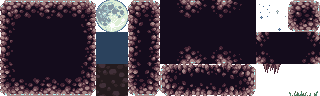
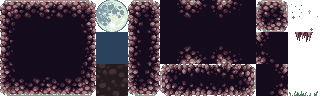
fixes minor bugs

Changed region(s): [[0.7812, 0.0, 1.0, 1.0]]

diff --git a/src/Level.js b/src/Level.js
@@ -51,7 +51,7 @@ const level1 = [
     [12, 12, 13, 14, 14, 14, 14, 14, 14, 14, 14, 14, 14, 14, 14, 14, 14, 14, 14, 14, 14, 14, 14, 14, 14, 14, 14, 14, 14, 14, 14, 14, 26, 19, 12, 12, 12, 12, 12, 12, 13, 24, 24, 24, 24, 24, 24, 24, 24, 24, 24, 24, 24, 24, 24, 24, 24, 24, 11, 12, 12, 13, 24, 24, 24, 24, 24, 24, 24, 24, 24, 24, 24, 24, 11, 12, 12, 12, 12, 12],
     [12, 12, 13, 14, 14, 14, 14, 14, 14, 14, 14, 14, 14, 14, 14, 14, 14, 14, 14, 14, 14, 14, 14, 14, 14, 14, 14, 14, 14, 14, 14, 14, 14, 11, 12, 12, 12, 12, 12, 12, 13, 24, 24, 24, 24, 24, 24, 24, 24, 24, 24, 24, 24,  1,  2,  2,  2,  2,  8, 16, 22, 23, 24, 24, 24, 24, 24, 24, 24, 24, 24, 24, 24, 24, 11, 12, 12, 12, 12, 12],
     [12, 12, 13, 14, 14, 14, 14, 14, 14, 14, 14, 14, 14, 14, 14, 14, 14, 14, 14, 14, 14, 14, 14, 14, 14, 14, 14, 14, 14, 14, 14, 14, 14, 11, 12, 12, 12, 12, 12, 12, 13, 24, 24, 24, 24, 24, 24, 24, 24, 24, 24, 24, 24, 11, 12, 12, 12, 12, 12, 13, 24, 24, 24, 24, 24, 24, 24, 24,  1,  2,  2,  2,  2,  2,  8, 12, 12, 12, 12, 12],
-    [12, 12, 13, 14, 14, 14, 14, 14, 14, 14, 14, 14, 14, 14, 14, 14, 14, 14, 14, 14, 14, 14, 14, 14, 14,  1,  2,  2,  2,  2,  2,  2,  2,  8, 12, 12, 12, 12, 12, 12, 13, 24, 24, 24, 24, 24, 24, 24, 24, 24, 24, 24, 24, 11, 16, 22, 22, 22, 22, 23, 24, 24, 24, 24, 24, 24, 24, 24, 21, 22, 22, 22, 12, 12, 12, 12, 12, 12, 12, 12],
+    [12, 12, 13, 14, 14, 14, 14, 14, 14, 14, 14, 14, 14, 14, 14, 14, 14, 14, 14, 14, 14, 14, 14, 14, 14,  1,  2,  2,  2,  2,  2,  2,  2,  8, 12, 12, 12, 12, 12, 12, 13, 24, 24, 24, 24, 24, 24, 24, 24, 24, 24, 24, 24, 11, 16, 22, 22, 22, 22, 23, 24, 24, 24, 24, 24, 24, 24, 24, 21, 22, 18, 12, 12, 12, 12, 12, 12, 12, 12, 12],
     [12, 12, 13, 14, 14, 14, 14, 14, 14, 14, 14, 14, 14, 14, 14, 14, 14, 14,  5, 14, 14, 14, 14, 14, 14, 11, 12, 12, 12, 12, 12, 12, 12, 12, 12, 12, 12, 12, 12, 12, 13, 24, 24, 24, 24, 24, 24, 24, 24, 24, 24, 24, 24, 11, 13, 24, 24, 24, 24, 24, 24, 24, 24, 24, 24, 24, 24, 24, 24, 24, 11, 12, 12, 12, 12, 12, 12, 12, 12, 12],
     [12, 12,  6,  2,  2,  2,  2,  2,  2,  2,  2,  2,  2,  2,  2,  2,  2,  2,  7,  2,  2,  2,  2,  2,  2,  8, 12, 12, 12, 12, 12, 12, 12, 12, 12, 12, 12, 12, 12, 12, 13, 24, 24, 24, 24, 24, 24, 24, 24, 24, 24, 24, 24, 11, 13, 24, 24, 24, 24, 24, 24, 24, 24, 26, 28, 24, 24, 24, 24, 24, 11, 12, 12, 12, 12, 12, 12, 12, 12, 12],
     [12, 12, 12, 12, 12, 12, 12, 12, 12, 12, 12, 12, 12, 12, 12, 12, 12, 12, 12, 12, 12, 12, 12, 12, 12, 12, 12, 12, 12, 12, 12, 12, 12, 12, 12, 12, 12, 12, 12, 12, 13, 24, 24, 24, 24, 24, 24, 24, 24, 24, 24, 24, 24, 11, 13, 24, 24, 24, 24, 24, 24, 24, 24, 24, 24, 24, 24, 24, 24, 24, 11, 12, 12, 12, 12, 12, 12, 12, 12, 12],
@@ -64,18 +64,18 @@ const level1 = [
     [12, 12, 12, 13, 24, 24, 24, 24, 11, 12, 12, 12, 13, 24, 24, 24, 24, 24, 24, 24, 24, 24, 24, 24, 24, 24, 24, 24, 24, 24, 11, 12, 12, 12, 12, 12, 12, 12, 12, 13, 24, 24, 24, 24, 24, 24, 24, 24, 11, 12, 12, 12, 12, 16, 23, 24, 24, 24, 24, 24, 26, 28, 24, 24, 24, 24, 11, 12, 12, 12, 12, 12, 12, 12, 12, 12, 12, 12, 12, 12],
     [12, 12, 12, 13, 24, 24, 24, 24, 11, 12, 12, 12,  6,  2,  2,  2,  2,  2,  2,  2,  2,  2,  2,  2,  2,  2,  2,  2,  2,  2,  8, 12, 12, 12, 12, 12, 12, 12, 12, 13, 24, 24, 24, 24, 24, 24, 24, 24, 11, 12, 12, 12, 12, 13, 24, 24, 24, 24, 24, 24, 24, 24, 24, 24, 24, 24, 11, 12, 12, 12, 12, 12, 12, 12, 12, 12, 12, 12, 12, 12],
     [12, 12, 12, 13, 24, 24, 24, 24, 11, 12, 12, 12, 12, 12, 12, 12, 12, 12, 12, 12, 12, 12, 12, 12, 12, 12, 12, 12, 12, 12, 12, 12, 12, 16, 22, 22, 22, 22, 22, 23, 24, 24, 24, 24, 24, 24, 24, 24, 11, 12, 12, 12, 12, 13, 24, 24, 24, 24, 24, 24, 24, 24, 24, 24, 24, 24, 11, 12, 12, 12, 12, 12, 12, 12, 12, 12, 12, 12, 12, 12],
-    [12, 12, 12, 13, 24, 24, 24, 24, 11, 12, 12, 12, 12, 12, 12, 12, 12, 12, 12, 12, 12, 12, 12, 12, 12, 12, 12, 12, 12, 12, 12, 12, 12, 13, 24, 24, 24, 24, 24, 24, 24, 24, 24, 24, 24, 24, 24, 24, 11, 12, 12, 12, 12, 20, 27, 27, 28, 24, 24, 24, 24, 24, 24, 24, 24, 24, 11, 12, 12, 12, 12, 12, 12, 12, 12, 12, 12, 12, 12, 12],
-    [12, 12, 12, 13, 24, 24, 24, 24, 11, 12, 12, 12, 12, 12, 12, 12, 12, 12, 12, 12, 12, 12, 12, 12, 12, 12, 12, 12, 12, 12, 12, 12, 12, 13, 24, 24, 24, 24, 24, 24, 24, 24, 24, 24, 24, 24, 24, 24, 11, 12, 12, 12, 12, 13, 24, 24, 24, 24, 24, 24, 24, 24, 24, 24, 24, 24, 11, 12, 12, 12, 12, 12, 12, 12, 12, 12, 12, 12, 12, 12],
-    [12, 12, 12, 24, 24, 24, 24, 24, 11, 12, 12, 12, 12, 12, 12, 12, 12, 12, 12, 12, 12, 12, 12, 12, 12, 12, 12, 12, 12, 12, 12, 12, 12, 13, 24, 24, 24, 24, 24, 24, 24, 24, 24, 24, 24, 24, 24, 24, 11, 12, 12, 12, 12, 13, 24, 24, 24, 24, 26, 27, 28, 24, 24, 24, 24, 24, 11, 12, 12, 12, 12, 12, 12, 12, 12, 12, 12, 12, 12, 12],
-    [12, 12, 12, 24, 24, 24, 24, 24, 11, 12, 12, 12, 12, 12, 12, 12, 12, 12, 12, 12, 12, 12, 12, 12, 12, 12, 12, 12, 12, 12, 12, 12, 12, 13, 24, 24, 24, 24, 24, 24, 24, 24, 24, 24, 24, 24, 24, 24, 11, 12, 12, 12, 12, 13, 24, 24, 24, 24, 24, 24, 24, 24, 24, 24, 24, 24, 11, 12, 12, 12, 12, 12, 12, 12, 12, 12, 12, 12, 12, 12],
-    [12, 12, 12, 24, 24, 24, 24, 24, 11, 12, 12, 12, 12, 12, 12, 12, 12, 12, 12, 12, 12, 12, 12, 12, 12, 12, 12, 12, 12, 12, 12, 12, 12, 13, 24, 24, 24, 24, 24, 24, 24, 24, 24, 24, 24, 24, 24, 24, 11, 12, 12, 12, 12, 13, 24, 24, 24, 24, 24, 24, 24, 24, 24, 24, 26, 27, 19, 12, 12, 12, 12, 12, 12, 12, 12, 12, 12, 12, 12, 12],
-    [12, 12, 12, 13, 24, 24, 24, 24, 11, 12, 12, 12, 12, 12, 12, 12, 12, 12, 12, 12, 12, 12, 12, 12, 12, 12, 12, 12, 12, 12, 12, 12, 12, 13, 24, 24, 24, 24, 24, 24, 24, 24, 24, 24, 24, 24, 24, 24, 11, 12, 12, 12, 12, 13, 24, 24, 24, 24, 24, 24, 24, 24, 24, 24, 24, 24, 11, 12, 12, 12, 12, 12, 12, 12, 12, 12, 12, 12, 12, 12],
+    [12, 12, 12, 13, 24, 24, 24, 24, 11, 12, 12, 12, 12, 12, 12, 12, 12, 12, 12, 12, 12, 12, 12, 12, 12, 12, 12, 12, 12, 12, 12, 12, 12, 13, 24, 24, 24, 24, 24, 24, 24, 24, 24, 24, 24, 24, 24, 24, 11, 12, 12, 12, 12, 29, 27, 27, 28, 24, 24, 24, 24, 24, 24, 24, 24, 24, 11, 12, 12, 12, 12, 12, 12, 12, 12, 12, 12, 12, 12, 12],
+    [12, 12, 16, 23, 24, 24, 24, 24, 11, 12, 12, 12, 12, 12, 12, 12, 12, 12, 12, 12, 12, 12, 12, 12, 12, 12, 12, 12, 12, 12, 12, 12, 12, 13, 24, 24, 24, 24, 24, 24, 24, 24, 24, 24, 24, 24, 24, 24, 11, 12, 12, 12, 12, 13, 24, 24, 24, 24, 24, 24, 24, 24, 24, 24, 24, 24, 11, 12, 12, 12, 12, 12, 12, 12, 12, 12, 12, 12, 12, 12],
+    [12, 12, 13, 24, 24, 24, 24, 24, 11, 12, 12, 12, 12, 12, 12, 12, 12, 12, 12, 12, 12, 12, 12, 12, 12, 12, 12, 12, 12, 12, 12, 12, 12, 13, 24, 24, 24, 24, 24, 24, 24, 24, 24, 24, 24, 24, 24, 24, 11, 12, 12, 12, 12, 13, 24, 24, 24, 24, 26, 27, 28, 24, 24, 24, 24, 24, 11, 12, 12, 12, 12, 12, 12, 12, 12, 12, 12, 12, 12, 12],
+    [12, 12, 13, 24, 24, 24, 24, 24, 11, 12, 12, 12, 12, 12, 12, 12, 12, 12, 12, 12, 12, 12, 12, 12, 12, 12, 12, 12, 12, 12, 12, 12, 12, 13, 24, 24, 24, 24, 24, 24, 24, 24, 24, 24, 24, 24, 24, 24, 11, 12, 12, 12, 12, 13, 24, 24, 24, 24, 24, 24, 24, 24, 24, 24, 24, 24, 11, 12, 12, 12, 12, 12, 12, 12, 12, 12, 12, 12, 12, 12],
+    [12, 12, 13, 24, 24, 24, 24, 24, 11, 12, 12, 12, 12, 12, 12, 12, 12, 12, 12, 12, 12, 12, 12, 12, 12, 12, 12, 12, 12, 12, 12, 12, 12, 13, 24, 24, 24, 24, 24, 24, 24, 24, 24, 24, 24, 24, 24, 24, 11, 12, 12, 12, 12, 13, 24, 24, 24, 24, 24, 24, 24, 24, 24, 24, 26, 27, 19, 12, 12, 12, 12, 12, 12, 12, 12, 12, 12, 12, 12, 12],
+    [12, 12,  6,  3, 24, 24, 24, 24, 11, 12, 12, 12, 12, 12, 12, 12, 12, 12, 12, 12, 12, 12, 12, 12, 12, 12, 12, 12, 12, 12, 12, 12, 12, 13, 24, 24, 24, 24, 24, 24, 24, 24, 24, 24, 24, 24, 24, 24, 11, 12, 12, 12, 12, 13, 24, 24, 24, 24, 24, 24, 24, 24, 24, 24, 24, 24, 11, 12, 12, 12, 12, 12, 12, 12, 12, 12, 12, 12, 12, 12],
     [12, 12, 12, 13, 24, 24, 24, 24, 11, 12, 12, 12, 12, 12, 12, 12, 12, 12, 12, 12, 12, 12, 12, 12, 12, 12, 12, 12, 12, 12, 12, 12, 12, 13, 24, 24, 24, 24, 24, 24, 24, 24, 24, 24, 24, 24, 24, 24, 11, 12, 12, 12, 12, 13, 24, 24, 24, 24, 24, 26, 27, 28, 24, 24, 24, 24, 11, 12, 12, 12, 12, 12, 12, 12, 12, 12, 12, 12, 12, 12],
-    [12, 12, 12, 13, 24, 24, 24, 24, 11, 12, 12, 12, 12, 12, 12, 12, 12, 12, 12, 12, 12, 12, 12, 12, 12, 12, 12, 12, 12, 12, 12, 12, 12, 13, 24, 24, 24, 24, 24, 24, 24, 24, 24, 24, 24, 24, 24, 24, 11, 12, 12, 12, 12, 13, 24, 24, 24, 24, 24, 24, 24, 24, 24, 24, 24, 24, 11, 12, 12, 12, 12, 12, 12, 12, 12, 12, 12, 12, 12, 12],
-    [12, 12, 12, 13, 24, 24, 24, 24, 24, 12, 12, 12, 12, 12, 12, 12, 12, 12, 12, 12, 12, 12, 12, 12, 12, 12, 12, 12, 12, 12, 12, 12, 12,  6,  2,  2,  2,  2,  2,  2,  2,  2,  2,  2,  2,  2,  2,  2,  8, 12, 12, 12, 12, 20, 27, 27, 28, 24, 24, 24, 24, 24, 24, 24, 24, 24, 11, 12, 12, 12, 12, 12, 12, 12, 12, 12, 12, 12, 12, 12],
-    [12, 12, 12, 13, 24, 24, 24, 24, 24, 12, 12, 12, 12, 12, 12, 12, 12, 12, 12, 12, 12, 12, 12, 12, 12, 12, 12, 12, 12, 12, 12, 12, 12, 12, 12, 12, 12, 12, 12, 12, 12, 12, 12, 12, 12, 12, 12, 12, 12, 12, 12, 12, 12, 13, 24, 24, 24, 24, 24, 24, 24, 24, 24, 24, 24, 24, 11, 12, 12, 12, 12, 12, 12, 12, 12, 12, 12, 12, 12, 12],
-    [12, 12, 12, 13, 24, 24, 24, 24, 24, 12, 12, 12, 12, 12, 12, 12, 12, 12, 12, 12, 12, 12, 12, 12, 12, 12, 12, 12, 12, 12, 12, 12, 12, 12, 12, 12, 12, 12, 12, 12, 12, 12, 12, 12, 12, 12, 12, 12, 12, 12, 12, 12, 12, 13, 24, 24, 24, 24, 24, 24, 24, 24, 24, 24, 24, 24, 11, 12, 12, 12, 12, 12, 12, 12, 12, 12, 12, 12, 12, 12],
-    [12, 12, 12, 13, 24, 24, 24, 24, 11, 12, 12, 12, 12, 12, 12, 12, 12, 12, 12, 12, 12, 12, 12, 12, 12, 12, 12, 12, 12, 12, 12, 12, 12, 12, 12, 12, 12, 12, 12, 12, 12, 12, 12, 12, 12, 12, 12, 12, 12, 12, 12, 12, 12, 13, 24, 24, 24, 24, 26, 28, 24, 24, 24, 24, 24, 24, 11, 12, 12, 12, 12, 12, 12, 12, 12, 12, 12, 12, 12, 12],
+    [12, 12, 12, 13, 24, 24, 24, 24, 21, 18, 12, 12, 12, 12, 12, 12, 12, 12, 12, 12, 12, 12, 12, 12, 12, 12, 12, 12, 12, 12, 12, 12, 12, 13, 24, 24, 24, 24, 24, 24, 24, 24, 24, 24, 24, 24, 24, 24, 11, 12, 12, 12, 12, 13, 24, 24, 24, 24, 24, 24, 24, 24, 24, 24, 24, 24, 11, 12, 12, 12, 12, 12, 12, 12, 12, 12, 12, 12, 12, 12],
+    [12, 12, 12, 13, 24, 24, 24, 24, 24, 11, 12, 12, 12, 12, 12, 12, 12, 12, 12, 12, 12, 12, 12, 12, 12, 12, 12, 12, 12, 12, 12, 12, 12,  6,  2,  2,  2,  2,  2,  2,  2,  2,  2,  2,  2,  2,  2,  2,  8, 12, 12, 12, 12, 29, 27, 27, 28, 24, 24, 24, 24, 24, 24, 24, 24, 24, 11, 12, 12, 12, 12, 12, 12, 12, 12, 12, 12, 12, 12, 12],
+    [12, 12, 12, 13, 24, 24, 24, 24, 24, 11, 12, 12, 12, 12, 12, 12, 12, 12, 12, 12, 12, 12, 12, 12, 12, 12, 12, 12, 12, 12, 12, 12, 12, 12, 12, 12, 12, 12, 12, 12, 12, 12, 12, 12, 12, 12, 12, 12, 12, 12, 12, 12, 12, 13, 24, 24, 24, 24, 24, 24, 24, 24, 24, 24, 24, 24, 11, 12, 12, 12, 12, 12, 12, 12, 12, 12, 12, 12, 12, 12],
+    [12, 12, 12, 13, 24, 24, 24, 24, 24, 11, 12, 12, 12, 12, 12, 12, 12, 12, 12, 12, 12, 12, 12, 12, 12, 12, 12, 12, 12, 12, 12, 12, 12, 12, 12, 12, 12, 12, 12, 12, 12, 12, 12, 12, 12, 12, 12, 12, 12, 12, 12, 12, 12, 13, 24, 24, 24, 24, 24, 24, 24, 24, 24, 24, 24, 24, 11, 12, 12, 12, 12, 12, 12, 12, 12, 12, 12, 12, 12, 12],
+    [12, 12, 12, 13, 24, 24, 24, 24,  1,  8, 12, 12, 12, 12, 12, 12, 12, 12, 12, 12, 12, 12, 12, 12, 12, 12, 12, 12, 12, 12, 12, 12, 12, 12, 12, 12, 12, 12, 12, 12, 12, 12, 12, 12, 12, 12, 12, 12, 12, 12, 12, 12, 12, 13, 24, 24, 24, 24, 26, 28, 24, 24, 24, 24, 24, 24, 11, 12, 12, 12, 12, 12, 12, 12, 12, 12, 12, 12, 12, 12],
     [12, 12, 12, 13, 24, 24, 24, 24, 11, 12, 12, 12, 12, 12, 12, 12, 12, 12, 12, 12, 12, 12, 12, 12, 12, 12, 12, 12, 12, 12, 12, 12, 12, 12, 12, 12, 12, 12, 12, 12, 12, 12, 12, 12, 12, 12, 12, 12, 12, 12, 12, 12, 12, 13, 24, 24, 24, 24, 24, 24, 24, 24, 24, 24, 24, 24, 11, 12, 12, 12, 12, 12, 12, 12, 12, 12, 12, 12, 12, 12],
     [12, 12, 12, 13, 24, 24, 24, 24, 21, 22, 22, 22, 22, 22, 22, 22, 22, 22, 22, 22, 22, 22, 22, 22, 22, 22, 22, 22, 22, 22, 22, 22, 22, 22, 22, 22, 22, 22, 22, 22, 22, 22, 22, 22, 22, 22, 22, 22, 22, 22, 22, 22, 22, 23, 24, 24, 24, 24, 24, 24, 24, 24, 24, 26, 27, 27, 19, 12, 12, 12, 12, 12, 12, 12, 12, 12, 12, 12, 12, 12],
     [12, 12, 12, 13, 24, 24, 24, 24, 24, 24, 24, 24, 24, 24, 24, 24, 24, 24, 24, 24, 24, 24, 24, 24, 24, 24, 24, 24, 24, 24, 24, 24, 24, 24, 24, 24, 24, 24, 24, 24, 24, 24, 24, 24, 24, 24, 24, 24, 24, 24, 24, 24, 24, 24, 24, 24, 24, 24, 24, 24, 24, 24, 24, 24, 24, 24, 11, 12, 12, 12, 12, 12, 12, 12, 12, 12, 12, 12, 12, 12],
@@ -102,20 +102,20 @@ const level1 = [
     [12, 12, 12, 13, 24, 24, 24, 24, 11,  6,  2,  2,  2,  2,  7,  2,  2,  2,  7,  2,  2,  2,  2,  8, 12, 12, 12, 12, 12, 12, 12, 12, 12, 12, 12, 12, 12, 12, 12, 12, 12, 12, 12, 12, 12, 12, 12, 12, 12, 13, 24, 24, 24, 24, 24, 24, 24, 24, 24, 24, 24, 24, 24, 24, 24, 24, 11, 12, 12, 12, 12, 12, 12, 12, 12, 12, 12, 12, 12, 12],
     [12, 12, 12, 13, 24, 24, 24, 24, 11, 12, 12, 12, 12, 12, 12, 12, 12, 12, 12, 12, 12, 12, 12, 12, 12, 12, 12, 12, 12, 12, 12, 12, 12, 12, 12, 12, 12, 12, 12, 12, 12, 12, 12, 12, 12, 12, 12, 12, 12, 13, 24, 24, 24, 24, 24, 24, 24, 24, 24, 24, 24, 24, 24, 24, 24, 24, 11, 12, 12, 12, 12, 12, 12, 12, 12, 12, 12, 12, 12, 12],
     [12, 12, 12, 13, 24, 24, 24, 24, 11, 12, 12, 12, 12, 12, 12, 12, 12, 12, 12, 12, 12, 12, 12, 12, 12, 12, 12, 12, 12, 12, 12, 12, 12, 12, 12, 12, 12, 12, 12, 12, 12, 12, 12, 12, 12, 12, 12, 12, 12, 13, 24, 24, 24, 24, 24, 24, 24, 24, 24, 24, 24, 24, 24, 24, 24, 24, 11, 12, 12, 12, 12, 12, 12, 12, 12, 12, 12, 12, 12, 12],
-    [12, 12, 12, 13, 24, 24, 24, 24, 11, 12, 12, 12, 12, 12, 12, 12, 12, 12, 12, 12, 12, 12, 12, 12, 12, 12, 12, 12, 12, 12, 12, 12, 12, 12, 12, 12, 12, 12, 12, 12, 12, 12, 12, 12, 12, 12, 12, 12, 12, 13, 24, 24, 24, 24, 24, 24, 24, 24, 24, 24, 24, 24, 24, 24, 24, 24, 11, 12, 12, 12, 12, 12, 12, 12, 12, 12, 12, 12, 12, 12],
-    [12, 12, 12, 13, 24, 24, 24, 24, 11, 12, 12, 12, 12, 12, 12, 12, 12, 12, 12, 12, 12, 12, 12, 12, 12, 12, 12, 12, 12, 12, 12, 12, 12, 12, 12, 12, 12, 12, 12, 12, 12, 12, 12, 12, 12, 12, 12, 12, 12, 13, 24, 24, 24, 24, 24, 24, 24, 24, 24, 24, 24, 24, 24, 24, 24, 24, 11, 12, 12, 12, 12, 12, 12, 12, 12, 12, 12, 12, 12, 12],
-    [12, 12, 12, 13, 24, 24, 24, 24, 11, 12, 12, 12, 12, 12, 12, 12, 12, 12, 12, 12, 12, 12, 12, 12, 12, 12, 12, 12, 12, 12, 12, 12, 12, 12, 12, 12, 12, 12, 12, 12, 12, 12, 12, 12, 12, 12, 12, 12, 12,  6,  2,  2,  2,  2,  3, 24, 24, 24, 24, 24, 24, 24, 24, 24, 24, 24, 11, 12, 12, 12, 12, 12, 12, 12, 12, 12, 12, 12, 12, 12],
-    [12, 12, 12, 13, 24, 24, 24, 24, 11, 12, 12, 12, 12, 12, 12, 12, 12, 12, 12, 12, 12, 12, 12, 12, 12, 12, 12, 12, 12, 12, 12, 12, 12, 12, 12, 12, 12, 12, 12, 16, 22, 22, 22, 22, 22, 22, 22, 22, 22, 22, 22, 22, 22, 22, 23, 24, 24, 24, 24, 24, 24, 24, 24, 24, 24, 24, 11, 12, 12, 12, 12, 12, 12, 12, 12, 12, 12, 12, 12, 12],
-    [12, 12, 12, 13, 24, 24, 24, 24, 11, 12, 12, 12, 12, 12, 12, 12, 12, 12, 12, 12, 12, 12, 12, 12, 12, 12, 12, 12, 12, 12, 12, 12, 12, 12, 12, 12, 12, 12, 12, 13, 24, 24, 24, 24, 24, 24, 24, 24, 24, 24, 24, 24, 24, 24, 24, 24, 24, 26, 28, 24, 24, 24, 24, 24, 24, 24, 11, 12, 12, 12, 12, 12, 12, 12, 12, 12, 12, 12, 12, 12],
+    [12, 12, 16, 23, 24, 24, 24, 24, 11, 12, 12, 12, 12, 12, 12, 12, 12, 12, 12, 12, 12, 12, 12, 12, 12, 12, 12, 12, 12, 12, 12, 12, 12, 12, 12, 12, 12, 12, 12, 12, 12, 12, 12, 12, 12, 12, 12, 12, 12, 13, 24, 24, 24, 24, 24, 24, 24, 24, 24, 24, 24, 24, 24, 24, 24, 24, 11, 12, 12, 12, 12, 12, 12, 12, 12, 12, 12, 12, 12, 12],
+    [12, 12, 13, 24, 24, 24, 24, 24, 11, 12, 12, 12, 12, 12, 12, 12, 12, 12, 12, 12, 12, 12, 12, 12, 12, 12, 12, 12, 12, 12, 12, 12, 12, 12, 12, 12, 12, 12, 12, 12, 12, 12, 12, 12, 12, 12, 12, 12, 12, 13, 24, 24, 24, 24, 24, 24, 24, 24, 24, 24, 24, 24, 24, 24, 24, 24, 11, 12, 12, 12, 12, 12, 12, 12, 12, 12, 12, 12, 12, 12],
+    [12, 12, 13, 24, 24, 24, 24, 24, 11, 12, 12, 12, 12, 12, 12, 12, 12, 12, 12, 12, 12, 12, 12, 12, 12, 12, 12, 12, 12, 12, 12, 12, 12, 12, 12, 12, 12, 12, 12, 12, 12, 12, 12, 12, 12, 12, 12, 12, 12,  6,  2,  2,  2,  2,  3, 24, 24, 24, 24, 24, 24, 24, 24, 24, 24, 24, 11, 12, 12, 12, 12, 12, 12, 12, 12, 12, 12, 12, 12, 12],
+    [12, 12, 13, 24, 24, 24, 24, 24, 11, 12, 12, 12, 12, 12, 12, 12, 12, 12, 12, 12, 12, 12, 12, 12, 12, 12, 12, 12, 12, 12, 12, 12, 12, 12, 12, 12, 12, 12, 12, 16, 22, 22, 22, 22, 22, 22, 22, 22, 22, 22, 22, 22, 22, 22, 23, 24, 24, 24, 24, 24, 24, 24, 24, 24, 24, 24, 11, 12, 12, 12, 12, 12, 12, 12, 12, 12, 12, 12, 12, 12],
+    [12, 12,  6,  3, 24, 24, 24, 24, 11, 12, 12, 12, 12, 12, 12, 12, 12, 12, 12, 12, 12, 12, 12, 12, 12, 12, 12, 12, 12, 12, 12, 12, 12, 12, 12, 12, 12, 12, 12, 13, 24, 24, 24, 24, 24, 24, 24, 24, 24, 24, 24, 24, 24, 24, 24, 24, 24, 26, 28, 24, 24, 24, 24, 24, 24, 24, 11, 12, 12, 12, 12, 12, 12, 12, 12, 12, 12, 12, 12, 12],
     [12, 12, 12, 13, 24, 24, 24, 24, 11, 12, 12, 12, 16, 22, 22, 22, 22, 22, 22, 22, 22, 22, 22, 18, 12, 12, 12, 12, 12, 12, 12, 12, 12, 12, 12, 12, 12, 12, 12, 13, 24, 24, 24, 24, 24, 24, 24, 24, 24, 24, 24, 24, 24, 24, 24, 24, 24, 24, 24, 24, 24, 24, 24, 24, 24, 24, 11, 12, 12, 12, 12, 12, 12, 12, 12, 12, 12, 12, 12, 12],
     [12, 12, 12, 13, 24, 24, 24, 24, 11, 12, 12, 12, 13, 24, 24, 24, 24, 24, 24, 24, 24, 24, 24, 11, 12, 12, 12, 12, 12, 12, 12, 12, 12, 12, 12, 12, 12, 12, 12, 13, 24, 24, 24, 24, 24, 24, 24, 24, 24, 24, 24, 24, 24, 24, 24, 24, 24, 24, 24, 24, 24, 24, 26, 27, 27, 27, 19, 12, 12, 12, 12, 12, 12, 12, 12, 12, 12, 12, 12, 12],
-    [12, 12, 12, 13, 24, 24, 24, 24, 11, 12, 12, 12, 13, 24, 24, 24, 24, 24, 24, 24, 24, 24, 24, 11, 12, 12, 12, 12, 12, 12, 12, 12, 12, 12, 12, 12, 12, 12, 12, 20, 27, 27, 28, 24, 24, 24, 24, 24, 24, 24, 24, 24, 24, 24, 24, 24, 24, 24, 24, 24, 24, 24, 24, 24, 24, 24, 11, 12, 12, 12, 12, 12, 12, 12, 12, 12, 12, 12, 12, 12],
+    [12, 12, 12, 13, 24, 24, 24, 24, 11, 12, 12, 12, 13, 24, 24, 24, 24, 24, 24, 24, 24, 24, 24, 11, 12, 12, 12, 12, 12, 12, 12, 12, 12, 12, 12, 12, 12, 12, 12, 29, 27, 27, 28, 24, 24, 24, 24, 24, 24, 24, 24, 24, 24, 24, 24, 24, 24, 24, 24, 24, 24, 24, 24, 24, 24, 24, 11, 12, 12, 12, 12, 12, 12, 12, 12, 12, 12, 12, 12, 12],
     [12, 12, 12, 13, 24, 24, 24, 24, 21, 22, 22, 22, 23, 24, 24, 24, 24, 24, 24, 24, 24, 24, 24, 11, 12, 12, 12, 12, 12, 12, 12, 12, 12, 12, 12, 12, 12, 12, 12, 13, 24, 24, 24, 24, 24, 24, 24, 24, 24, 24, 24, 24, 24, 24, 24, 24, 24, 24, 24, 24, 24, 24, 24, 24, 24, 24, 11, 12, 12, 12, 12, 12, 12, 12, 12, 12, 12, 12, 12, 12],
     [12, 12, 12, 13, 24, 24, 24, 24, 24, 24, 24, 24, 24, 24, 24, 24, 24, 24, 24, 24, 24, 24, 24, 11, 12, 12, 12, 12, 12, 12, 12, 12, 12, 12, 12, 12, 12, 12, 12, 13, 24, 24, 24, 24, 24, 24, 24, 24, 24, 24, 24, 24, 24, 24, 24, 24, 24, 24, 24,  1,  3, 24, 24, 24, 24, 24, 11, 12, 12, 12, 12, 12, 12, 12, 12, 12, 12, 12, 12, 12],
     [12, 12, 12, 13, 24, 24, 24, 24, 24, 24, 24, 24, 24, 24, 24, 24, 24, 24, 24, 24, 24, 24, 24, 21, 22, 22, 22, 22, 22, 18, 12, 12, 12, 12, 12, 12, 12, 12, 12, 13, 24, 24, 24, 24, 24, 24, 24, 24, 24, 24, 24, 24, 24, 24, 24, 24, 24, 24, 24, 11, 13, 24, 24, 24, 24, 24, 11, 12, 12, 12, 12, 12, 12, 12, 12, 12, 12, 12, 12, 12],
-    [12, 12, 12, 13, 24, 24, 24, 24, 24, 24, 24, 24, 24, 24, 24, 24, 24, 24, 24, 24, 24, 24, 24, 24, 24, 24, 24, 24, 24, 11, 12, 12, 12, 12, 12, 12, 12, 12, 12,  6,  2,  2,  2,  2,  2,  2,  2,  2,  2,  2,  2,  2,  2,  2,  2,  2,  2,  2,  2,  8,  6,  2,  2,  2,  2,  2,  8, 12, 12, 12, 12, 12, 12, 12, 12, 12, 12, 12, 12, 12],
-    [12, 12, 12, 13, 24, 24, 24, 24, 24, 24, 24, 24, 24, 24, 24, 24, 24, 24, 24, 24, 24, 24, 24, 24, 24, 24, 24, 24, 24, 11, 12, 12, 12, 12, 12, 12, 12, 12, 12, 12, 12, 12, 12, 12, 12, 12, 12, 12, 12, 12, 12, 12, 12, 12, 12, 12, 12, 12, 12, 12, 12, 12, 12, 12, 12, 12, 12, 12, 12, 12, 12, 12, 12, 12, 12, 12, 12, 12, 12, 12],
-    [12, 12, 12,  6,  2,  2,  2,  2,  2,  2,  2,  2,  2,  2,  2,  2,  2,  2,  2,  2,  3, 24, 24, 24, 24, 24, 24, 24, 24, 11, 12, 12, 12, 12, 12, 12, 12, 12, 12, 12, 12, 12, 12, 12, 12, 12, 12, 12, 12, 12, 12, 12, 12, 12, 12, 12, 12, 12, 12, 12, 12, 12, 12, 12, 12, 12, 12, 12, 12, 12, 12, 12, 12, 12, 12, 12, 12, 12, 12, 12],
+    [12, 12, 12, 13, 24, 24, 24, 24, 24, 24, 24, 24, 24, 24, 24, 24, 24, 24,  5, 24, 24, 24, 24, 24, 24, 24, 24, 24, 24, 11, 12, 12, 12, 12, 12, 12, 12, 12, 12,  6,  2,  2,  2,  2,  2,  2,  2,  2,  2,  2,  2,  2,  2,  2,  2,  2,  2,  2,  2,  8,  6,  2,  2,  2,  2,  2,  8, 12, 12, 12, 12, 12, 12, 12, 12, 12, 12, 12, 12, 12],
+    [12, 12, 12, 13, 24, 24, 24, 24, 24, 24, 24, 24, 24, 24, 24, 24, 24, 24, 15, 24, 24, 24, 24, 24, 24, 24, 24, 24, 24, 11, 12, 12, 12, 12, 12, 12, 12, 12, 12, 12, 12, 12, 12, 12, 12, 12, 12, 12, 12, 12, 12, 12, 12, 12, 12, 12, 12, 12, 12, 12, 12, 12, 12, 12, 12, 12, 12, 12, 12, 12, 12, 12, 12, 12, 12, 12, 12, 12, 12, 12],
+    [12, 12, 12,  6,  2,  2,  2,  2,  2,  2,  2,  2,  2,  2,  2,  2,  2,  2,  7,  2,  3, 24, 24, 24, 24, 24, 24, 24, 24, 11, 12, 12, 12, 12, 12, 12, 12, 12, 12, 12, 12, 12, 12, 12, 12, 12, 12, 12, 12, 12, 12, 12, 12, 12, 12, 12, 12, 12, 12, 12, 12, 12, 12, 12, 12, 12, 12, 12, 12, 12, 12, 12, 12, 12, 12, 12, 12, 12, 12, 12],
     [12, 12, 12, 12, 12, 12, 12, 12, 12, 12, 12, 12, 12, 12, 12, 12, 12, 12, 12, 12,  6,  2,  2,  2,  3, 24, 24, 24, 24, 11, 12, 12, 12, 12, 12, 12, 12, 12, 12, 12, 12, 12, 12, 12, 12, 12, 12, 12, 12, 12, 12, 12, 12, 12, 12, 12, 12, 12, 12, 12, 12, 12, 12, 12, 12, 12, 12, 12, 12, 12, 12, 12, 12, 12, 12, 12, 12, 12, 12, 12],
     [12, 12, 12, 12, 12, 12, 12, 12, 12, 12, 12, 12, 12, 12, 12, 12, 12, 12, 12, 12, 12, 12, 12, 12,  6,  2,  2,  2,  2,  8, 12, 12, 12, 12, 12, 12, 12, 12, 12, 12, 12, 12, 12, 12, 12, 12, 12, 12, 12, 12, 12, 12, 12, 12, 12, 12, 12, 12, 12, 12, 12, 12, 12, 12, 12, 12, 12, 12, 12, 12, 12, 12, 12, 12, 12, 12, 12, 12, 12, 12],
     [12, 12, 12, 12, 12, 12, 12, 12, 12, 12, 12, 12, 12, 12, 12, 12, 12, 12, 12, 12, 12, 12, 12, 12, 12, 12, 12, 12, 12, 12, 12, 12, 12, 12, 12, 12, 12, 12, 12, 12, 12, 12, 12, 12, 12, 12, 12, 12, 12, 12, 12, 12, 12, 12, 12, 12, 12, 12, 12, 12, 12, 12, 12, 12, 12, 12, 12, 12, 12, 12, 12, 12, 12, 12, 12, 12, 12, 12, 12, 12],
@@ -159,7 +159,7 @@ const monster1 = [
         [0, 0, 0, 0, 0, 0, 0, 0, 0, 0, 0, 0, 0, 0, 0, 0, 0, 0, 0, 0, 0, 0, 0, 0, 0, 0, 0, 0, 0, 0, 0, 0, 0, 0, 0, 0, 0, 0, 0, 0, 0, 0, 0, 0, 0, 0, 0, 0, 0, 0, 0, 0, 0, 0, 0, 0, 0, 0, 0, 0, 0, 0, 0, 0, 0, 0, 0, 0, 0, 0, 0, 0, 0, 0, 0, 0, 0, 0, 0, 0],
         [0, 0, 0, 0, 0, 0, 0, 0, 0, 0, 0, 0, 0, 0, 0, 0, 0, 0, 0, 0, 0, 0, 0, 0, 0, 0, 0, 0, 0, 0, 0, 0, 0, 0, 0, 0, 0, 0, 0, 0, 0, 0, 0, 0, 0, 0, 0, 0, 0, 0, 0, 0, 0, 0, 0, 0, 0, 0, 0, 0, 0, 0, 0, 0, 0, 0, 0, 0, 0, 0, 0, 0, 0, 0, 0, 0, 0, 0, 0, 0],
         [0, 0, 0, 0, 0, 0, 0, 0, 0, 0, 0, 0, 0, 0, 0, 0, 0, 0, 0, 0, 0, 0, 0, 0, 0, 0, 0, 0, 0, 0, 0, 0, 0, 0, 0, 0, 0, 0, 0, 0, 0, 0, 0, 0, 0, 0, 0, 0, 0, 0, 0, 0, 0, 0, 0, 0, 0, 0, 0, 0, 0, 0, 0, 0, 0, 0, 0, 0, 0, 0, 0, 0, 0, 0, 0, 0, 0, 0, 0, 0],
-        [0, 0, 0, 0, 0, 0, 0, 0, 0, 0, 0, 17, 0, 0, 0, 0, 0, 0, 0, 0, 0, 0, 0, 0, 0, 0, 0, 0, 0, 0, 0, 0, 0, 0, 0, 0, 0, 0, 0, 0, 0, 0, 0, 0, 0, 0, 0, 0, 0, 0, 0, 0, 0, 0, 0, 0, 0, 0, 0, 0, 0, 0, 0, 0, 0, 0, 0, 0, 0, 0, 0, 0, 0, 0, 0, 0, 0, 0, 0, 0],
+        [0, 0, 0, 0, 0, 0, 0, 0, 0, 0, 0, 0, 16, 0, 0, 0, 0, 0, 0, 0, 0, 0, 0, 0, 0, 0, 0, 0, 0, 0, 0, 0, 0, 0, 0, 0, 0, 0, 0, 0, 0, 0, 0, 0, 0, 0, 0, 0, 0, 0, 0, 0, 0, 0, 0, 0, 0, 0, 0, 0, 0, 0, 0, 0, 0, 0, 0, 0, 0, 0, 0, 0, 0, 0, 0, 0, 0, 0, 0, 0],
         [0, 0, 0, 0, 0, 0, 0, 0, 0, 0, 1, 0, 0, 0, 0, 0, 0, 0, 0, 0, 0, 0, 0, 0, 0, 0, 0, 0, 0, 0, 0, 0, 0, 0, 0, 0, 0, 0, 0, 0, 0, 0, 0, 0, 0, 0, 0, 0, 0, 0, 0, 0, 0, 0, 0, 0, 0, 0, 0, 0, 0, 0, 0, 0, 0, 0, 0, 0, 0, 0, 0, 0, 0, 0, 0, 0, 0, 0, 0, 0],
         [0, 0, 0, 0, 0, 0, 0, 0, 0, 0, 0, 0, 0, 0, 0, 0, 0, 0, 0, 0, 0, 0, 0, 0, 0, 0, 0, 0, 0, 0, 0, 0, 0, 0, 0, 0, 0, 0, 0, 0, 0, 0, 0, 0, 0, 0, 0, 0, 0, 0, 0, 0, 0, 0, 0, 0, 0, 0, 0, 0, 0, 0, 0, 0, 0, 0, 0, 0, 0, 0, 0, 0, 0, 0, 0, 0, 0, 0, 0, 0],
         [0, 0, 0, 0, 0, 0, 0, 0, 0, 0, 0, 0, 0, 0, 0, 0, 0, 0, 0, 0, 13, 0, 0, 0, 0, 0, 0, 0, 0, 0, 0, 0, 0, 0, 0, 0, 0, 0, 0, 0, 0, 0, 0, 0, 0, 0, 0, 0, 0, 0, 0, 0, 0, 0, 0, 0, 0, 0, 0, 0, 0, 0, 0, 0, 0, 0, 0, 0, 0, 0, 0, 0, 0, 0, 0, 0, 0, 0, 0, 0],
@@ -168,13 +168,13 @@ const monster1 = [
         [0, 0, 0, 0, 0, 0, 0, 0, 0, 0, 0, 0, 0, 0, 0, 0, 0, 0, 0, 0, 0, 0, 0, 0, 0, 0, 0, 0, 0, 0, 0, 0, 0, 0, 0, 0, 0, 0, 0, 0, 0, 0, 0, 0, 0, 0, 0, 0, 0, 0, 0, 0, 0, 0, 0, 0, 0, 0, 0, 0, 0, 0, 0, 0, 0, 0, 0, 0, 0, 0, 0, 0, 0, 0, 0, 0, 0, 0, 0, 0],
         [0, 0, 0, 0, 0, 0, 0, 0, 0, 0, 0, 0, 0, 0, 0, 0, 0, 0, 0, 0, 0, 0, 0, 0, 0, 0, 0, 0, 0, 0, 0, 0, 0, 0, 0, 0, 0, 0, 0, 0, 0, 0, 0, 0, 0, 0, 0, 0, 0, 0, 0, 0, 0, 0, 0, 0, 0, 0, 0, 0, 0, 0, 0, 0, 0, 0, 0, 0, 0, 0, 0, 0, 0, 0, 0, 0, 0, 0, 0, 0],
         [0, 0, 0, 0, 0, 0, 0, 0, 0, 0, 0, 0, 0, 0, 0, 0, 0, 0, 0, 0, 0, 0, 0, 0, 0, 0, 0, 0, 0, 0, 0, 0, 0, 0, 0, 0, 0, 0, 0, 0, 0, 0, 0, 0, 0, 0, 0, 0, 0, 0, 0, 0, 0, 0, 0, 0, 0, 0, 0, 0, 0, 0, 0, 0, 0, 0, 0, 0, 0, 0, 0, 0, 0, 0, 0, 0, 0, 0, 0, 0],
-        [0, 0, 16, 0, 0, 0, 0, 0, 0, 0, 0, 0, 0, 0, 0, 0, 0, 0, 0, 0, 0, 0, 0, 0, 0, 0, 0, 0, 0, 0, 0, 0, 0, 0, 3, 0, 0, 2, 0, 0, 2, 0, 0, 0, 0, 0, 0, 0, 0, 0, 0, 0, 0, 0, 0, 0, 0, 0, 0, 0, 0, 0, 0, 0, 0, 0, 0, 0, 0, 0, 0, 0, 0, 0, 0, 0, 0, 0, 0, 0],
-        [0, 0, 0, 0, 0, 0, 0, 0, 0, 0, 0, 0, 0, 0, 0, 0, 0, 0, 0, 0, 0, 0, 0, 0, 0, 0, 0, 0, 0, 0, 0, 0, 0, 0, 0, 0, 0, 0, 0, 0, 0, 0, 0, 0, 0, 0, 0, 0, 0, 0, 0, 0, 0, 0, 0, 0, 0, 0, 0, 0, 0, 0, 0, 0, 0, 0, 0, 0, 0, 0, 0, 0, 0, 0, 0, 0, 0, 0, 0, 0],
+        [0, 0, 0, 0, 0, 0, 0, 0, 0, 0, 0, 0, 0, 0, 0, 0, 0, 0, 0, 0, 0, 0, 0, 0, 0, 0, 0, 0, 0, 0, 0, 0, 0, 0, 3, 0, 0, 2, 0, 0, 2, 0, 0, 0, 0, 0, 0, 0, 0, 0, 0, 0, 0, 0, 0, 0, 0, 0, 0, 0, 0, 0, 0, 0, 0, 0, 0, 0, 0, 0, 0, 0, 0, 0, 0, 0, 0, 0, 0, 0],
+        [0, 0, 0, 16, 0, 0, 0, 0, 0, 0, 0, 0, 0, 0, 0, 0, 0, 0, 0, 0, 0, 0, 0, 0, 0, 0, 0, 0, 0, 0, 0, 0, 0, 0, 0, 0, 0, 0, 0, 0, 0, 0, 0, 0, 0, 0, 0, 0, 0, 0, 0, 0, 0, 0, 0, 0, 0, 0, 0, 0, 0, 0, 0, 0, 0, 0, 0, 0, 0, 0, 0, 0, 0, 0, 0, 0, 0, 0, 0, 0],
         [0, 0, 0, 0, 0, 0, 0, 0, 0, 0, 0, 0, 0, 0, 0, 0, 0, 0, 0, 0, 0, 0, 0, 0, 0, 0, 0, 0, 0, 0, 0, 0, 0, 0, 0, 0, 0, 0, 0, 0, 0, 0, 10, 0, 0, 0, 0, 0, 0, 0, 0, 0, 0, 0, 0, 0, 0, 0, 0, 0, 0, 0, 0, 0, 0, 0, 0, 0, 0, 0, 0, 0, 0, 0, 0, 0, 0, 0, 0, 0],
         [0, 0, 0, 0, 0, 0, 0, 0, 0, 0, 0, 0, 0, 0, 0, 0, 0, 0, 0, 0, 0, 0, 0, 0, 0, 0, 0, 0, 0, 0, 0, 0, 0, 0, 0, 0, 0, 0, 0, 0, 0, 0, 0, 0, 0, 0, 0, 0, 0, 0, 0, 0, 0, 0, 0, 0, 0, 0, 0, 0, 0, 0, 0, 0, 0, 0, 0, 0, 0, 0, 0, 0, 0, 0, 0, 0, 0, 0, 0, 0],
         [0, 0, 0, 0, 0, 0, 0, 0, 0, 0, 0, 0, 0, 0, 0, 0, 0, 0, 0, 0, 0, 0, 0, 0, 0, 0, 0, 0, 0, 0, 0, 0, 0, 0, 0, 0, 0, 0, 0, 0, 0, 0, 0, 0, 0, 0, 0, 0, 0, 0, 0, 0, 0, 0, 0, 0, 0, 0, 0, 0, 0, 0, 0, 0, 0, 0, 0, 0, 0, 0, 0, 0, 0, 0, 0, 0, 0, 0, 0, 0],
         [0, 0, 0, 0, 0, 0, 0, 0, 0, 0, 0, 0, 0, 0, 0, 0, 0, 0, 0, 0, 0, 0, 0, 0, 0, 0, 0, 0, 0, 0, 0, 0, 0, 0, 0, 0, 0, 0, 0, 0, 0, 0, 0, 0, 0, 0, 0, 0, 0, 0, 0, 0, 0, 0, 0, 0, 0, 0, 0, 0, 0, 0, 0, 0, 0, 0, 0, 0, 0, 0, 0, 0, 0, 0, 0, 0, 0, 0, 0, 0],
-        [0, 0, 0, 0, 11, 0, 0, 0, 0, 0, 0, 0, 0, 0, 0, 0, 0, 0, 0, 0, 0, 0, 0, 0, 0, 0, 0, 0, 0, 0, 0, 0, 0, 0, 0, 0, 0, 0, 0, 0, 0, 0, 0, 0, 0, 0, 0, 0, 0, 0, 0, 0, 0, 0, 0, 0, 0, 0, 0, 0, 0, 0, 0, 0, 0, 0, 0, 0, 0, 0, 0, 0, 0, 0, 0, 0, 0, 0, 0, 0],
+        [0, 0, 0, 0, 11, 0, 0, 0, 17, 0, 0, 0, 0, 0, 0, 0, 0, 0, 0, 0, 0, 0, 0, 0, 0, 0, 0, 0, 0, 0, 0, 0, 0, 0, 0, 0, 0, 0, 0, 0, 0, 0, 0, 0, 0, 0, 0, 0, 0, 0, 0, 0, 0, 0, 0, 0, 0, 0, 0, 0, 0, 0, 0, 0, 0, 0, 0, 0, 0, 0, 0, 0, 0, 0, 0, 0, 0, 0, 0, 0],
         [0, 0, 0, 0, 0, 0, 0, 0, 0, 0, 0, 0, 0, 0, 0, 0, 0, 0, 0, 0, 0, 0, 0, 0, 0, 0, 0, 0, 0, 0, 0, 0, 0, 0, 0, 0, 0, 0, 0, 0, 0, 0, 0, 0, 0, 0, 0, 0, 0, 0, 0, 0, 0, 0, 0, 0, 0, 0, 0, 0, 0, 0, 0, 0, 0, 0, 0, 0, 0, 0, 0, 0, 0, 0, 0, 0, 0, 0, 0, 0],
         [0, 0, 0, 0, 0, 0, 0, 0, 0, 0, 0, 0, 0, 0, 0, 0, 0, 0, 0, 0, 0, 0, 0, 0, 0, 0, 0, 0, 0, 0, 0, 0, 0, 0, 0, 0, 0, 0, 0, 0, 0, 0, 0, 0, 0, 0, 0, 0, 0, 0, 0, 0, 0, 0, 0, 0, 0, 0, 0, 0, 0, 0, 0, 0, 0, 0, 0, 0, 0, 0, 0, 0, 0, 0, 0, 0, 0, 0, 0, 0],
         [0, 0, 0, 0, 0, 0, 0, 0, 0, 0, 0, 0, 0, 0, 0, 0, 0, 0, 0, 0, 0, 0, 0, 0, 0, 0, 0, 0, 0, 0, 0, 0, 0, 0, 0, 0, 0, 0, 0, 0, 0, 0, 0, 0, 0, 0, 0, 0, 0, 0, 0, 0, 0, 0, 0, 0, 0, 0, 0, 0, 0, 0, 0, 0, 0, 0, 0, 0, 0, 0, 0, 0, 0, 0, 0, 0, 0, 0, 0, 0],
@@ -205,7 +205,7 @@ const monster1 = [
         [0, 0, 0, 0, 0, 0, 0, 0, 0, 0, 0, 0, 0, 0, 0, 0, 0, 0, 0, 0, 0, 0, 0, 0, 0, 0, 0, 0, 0, 0, 0, 0, 0, 0, 0, 0, 0, 0, 0, 0, 0, 0, 0, 0, 0, 0, 0, 0, 0, 0, 0, 0, 0, 0, 0, 0, 0, 14, 0, 0, 0, 0, 0, 0, 0, 0, 0, 0, 0, 0, 0, 0, 0, 0, 0, 0, 0, 0, 0, 0],
         [0, 0, 0, 0, 0, 0, 0, 0, 0, 0, 0, 0, 0, 0, 0, 0, 0, 0, 0, 0, 0, 0, 0, 0, 0, 0, 0, 0, 0, 0, 0, 0, 0, 0, 0, 0, 0, 0, 0, 0, 0, 0, 0, 0, 0, 0, 0, 0, 0, 0, 0, 0, 0, 0, 0, 0, 0, 0, 0, 0, 0, 0, 0, 0, 0, 0, 0, 0, 0, 0, 0, 0, 0, 0, 0, 0, 0, 0, 0, 0],
         [0, 0, 0, 0, 0, 0, 0, 0, 0, 0, 0, 0, 0, 0, 0, 0, 0, 0, 0, 0, 0, 0, 0, 0, 0, 0, 0, 0, 0, 0, 0, 0, 0, 0, 0, 0, 0, 0, 0, 0, 0, 0, 0, 0, 0, 0, 0, 0, 0, 0, 0, 0, 0, 0, 0, 0, 0, 0, 0, 0, 0, 0, 0, 0, 0, 0, 0, 0, 0, 0, 0, 0, 0, 0, 0, 0, 0, 0, 0, 0],
-        [0, 0, 0, 0, 11, 0, 0, 0, 0, 0, 0, 0, 0, 0, 0, 0, 0, 0, 0, 0, 0, 0, 0, 0, 0, 0, 0, 0, 0, 0, 0, 0, 0, 0, 0, 0, 0, 0, 0, 0, 0, 0, 0, 0, 0, 0, 0, 0, 0, 0, 0, 0, 0, 0, 0, 0, 0, 0, 0, 0, 0, 0, 0, 0, 0, 0, 0, 0, 0, 0, 0, 0, 0, 0, 0, 0, 0, 0, 0, 0],
+        [0, 0, 0, 16, 11, 0, 0, 0, 0, 0, 0, 0, 0, 0, 0, 0, 0, 0, 0, 0, 0, 0, 0, 0, 0, 0, 0, 0, 0, 0, 0, 0, 0, 0, 0, 0, 0, 0, 0, 0, 0, 0, 0, 0, 0, 0, 0, 0, 0, 0, 0, 0, 0, 0, 0, 0, 0, 0, 0, 0, 0, 0, 0, 0, 0, 0, 0, 0, 0, 0, 0, 0, 0, 0, 0, 0, 0, 0, 0, 0],
         [0, 0, 0, 0, 0, 0, 0, 0, 0, 0, 0, 0, 0, 0, 0, 0, 0, 0, 0, 0, 0, 0, 0, 0, 0, 0, 0, 0, 0, 0, 0, 0, 0, 0, 0, 0, 0, 0, 0, 0, 0, 0, 0, 0, 0, 0, 0, 0, 0, 0, 0, 0, 0, 0, 0, 0, 0, 0, 0, 0, 0, 0, 0, 0, 0, 0, 0, 0, 0, 0, 0, 0, 0, 0, 0, 0, 0, 0, 0, 0],
         [0, 0, 0, 0, 0, 0, 0, 0, 0, 0, 0, 0, 0, 0, 0, 0, 0, 0, 0, 0, 0, 0, 0, 0, 0, 0, 0, 0, 0, 0, 0, 0, 0, 0, 0, 0, 0, 0, 0, 0, 0, 0, 0, 0, 0, 0, 0, 0, 0, 0, 0, 0, 0, 0, 0, 0, 0, 0, 0, 0, 0, 0, 0, 0, 0, 0, 0, 0, 0, 0, 0, 0, 0, 0, 0, 0, 0, 0, 0, 0],
         [0, 0, 0, 0, 0, 0, 0, 0, 0, 0, 0, 0, 0, 0, 0, 0, 0, 0, 0, 0, 0, 0, 0, 0, 0, 0, 0, 0, 0, 0, 0, 0, 0, 0, 0, 0, 0, 0, 0, 0, 0, 0, 0, 0, 0, 0, 0, 0, 0, 0, 0, 0, 0, 0, 0, 0, 0, 0, 0, 0, 0, 0, 0, 0, 0, 0, 0, 0, 0, 0, 0, 0, 0, 0, 0, 0, 0, 0, 0, 0],
@@ -213,7 +213,7 @@ const monster1 = [
         [0, 0, 0, 0, 0, 0, 0, 0, 0, 0, 0, 0, 0, 0, 0, 0, 0, 0, 0, 0, 0, 0, 0, 0, 0, 0, 0, 0, 0, 0, 0, 0, 0, 0, 0, 0, 0, 0, 0, 0, 0, 0, 0, 0, 0, 0, 0, 0, 0, 0, 0, 0, 0, 0, 0, 0, 0, 0, 0, 0, 0, 0, 0, 0, 0, 0, 0, 0, 0, 0, 0, 0, 0, 0, 0, 0, 0, 0, 0, 0],
         [0, 0, 0, 0, 0, 0, 0, 0, 0, 0, 0, 0, 0, 0, 0, 0, 0, 0, 0, 0, 0, 0, 0, 0, 0, 0, 0, 0, 0, 0, 0, 0, 0, 0, 0, 0, 0, 0, 0, 0, 2, 0, 0, 0, 0, 0, 0, 0, 0, 0, 0, 0, 0, 0, 0, 0, 0, 0, 0, 0, 0, 0, 0, 0, 0, 0, 0, 0, 0, 0, 0, 0, 0, 0, 0, 0, 0, 0, 0, 0],
         [0, 0, 0, 0, 0, 0, 0, 0, 0, 0, 0, 0, 0, 0, 0, 0, 0, 0, 0, 0, 0, 0, 0, 0, 0, 0, 0, 0, 0, 0, 0, 0, 0, 0, 0, 0, 0, 0, 0, 0, 0, 0, 0, 0, 0, 0, 0, 0, 0, 0, 0, 0, 0, 0, 0, 0, 0, 0, 0, 0, 0, 0, 0, 0, 0, 0, 0, 0, 0, 0, 0, 0, 0, 0, 0, 0, 0, 0, 0, 0],
-        [0, 0, 0, 0, 0, 0, 0, 0, 0, 0, 0, 0, 0, 0, 0, 0, 0, 0, 0, 0, 0, 0, 0, 0, 0, 0, 0, 0, 0, 0, 0, 0, 0, 0, 0, 0, 0, 0, 0, 0, 0, 0, 0, 0, 0, 0, 0, 0, 0, 0, 0, 0, 0, 0, 0, 0, 0, 0, 0, 0, 0, 0, 0, 0, 0, 0, 0, 0, 0, 0, 0, 0, 0, 0, 0, 0, 0, 0, 0, 0],
+        [0, 0, 0, 0, 0, 0, 0, 0, 0, 0, 0, 2, 17, 0, 0, 0, 0, 0, 0, 0, 0, 0, 0, 0, 0, 0, 0, 0, 0, 0, 0, 0, 0, 0, 0, 0, 0, 0, 0, 0, 0, 0, 0, 0, 0, 0, 0, 0, 0, 0, 0, 0, 0, 0, 0, 0, 0, 0, 0, 0, 0, 0, 0, 0, 0, 0, 0, 0, 0, 0, 0, 0, 0, 0, 0, 0, 0, 0, 0, 0],
         [0, 0, 0, 0, 0, 0, 0, 0, 0, 0, 0, 0, 0, 0, 0, 0, 0, 0, 0, 0, 0, 0, 0, 0, 0, 0, 0, 0, 0, 0, 0, 0, 0, 0, 0, 0, 0, 0, 0, 0, 0, 0, 0, 0, 0, 0, 0, 0, 0, 0, 0, 0, 0, 0, 0, 0, 0, 0, 0, 0, 0, 0, 0, 0, 0, 0, 0, 0, 0, 0, 0, 0, 0, 0, 0, 0, 0, 0, 0, 0],
         [0, 0, 0, 0, 0, 0, 0, 0, 0, 0, 0, 0, 0, 0, 0, 0, 0, 0, 0, 0, 0, 0, 0, 0, 5, 0, 0, 0, 0, 0, 0, 0, 0, 0, 0, 0, 0, 0, 0, 0, 0, 0, 0, 0, 0, 0, 0, 0, 0, 0, 0, 0, 0, 0, 0, 0, 0, 0, 0, 0, 0, 0, 0, 0, 0, 0, 0, 0, 0, 0, 0, 0, 0, 0, 0, 0, 0, 0, 0, 0],
     ]

diff --git a/src/initialize.js b/src/initialize.js
@@ -318,7 +318,7 @@ function initMenuParticle() {
 
 
 function initSprites() {
-    initPlayer(330, 1114);
+    initPlayer(230, 914);
     initChair();
     for (let i = 0; i < monster1.length; i++) {
         
@@ -380,11 +380,11 @@ function initSprites() {
                     break;
 
                 case 16:
-                    initSkeleton(xPos, yPos, 0, 2, State.ATTACK_RIGHT_2)
+                    initSkeleton(xPos-30, yPos, 0, 1, State.ATTACK_RIGHT_2, 400)
                     break;
                 
                 case 17:
-                    initSkeleton(xPos, yPos, 0, 2, State.ATTACK_LEFT_2)
+                    initSkeleton(xPos-40, yPos, 0, 1, State.ATTACK_LEFT_2, 400)
                     break;
 
                 default:
@@ -657,7 +657,7 @@ function initPlayerFireball(xPos, yPos, STATE) {
     globals.shoots.push(fireball)
 }
 
-function initSkeleton(xPos, yPos, speed = 40, hp = 3, state = State.RUN_LEFT_2){
+function initSkeleton(xPos, yPos, speed = 40, hp = 3, state = State.RUN_LEFT_2, score = 300){
     //Img Properties:          initFil, initCol, xSize, ySize, gridSize, xOffset, yOffset
     const imageSet = new ImageSet(14,       0,      125,    90,     140,      20,      60)
 
@@ -671,7 +671,7 @@ function initSkeleton(xPos, yPos, speed = 40, hp = 3, state = State.RUN_LEFT_2){
     // const initTimeToChangeDirection = Math.floor(Math.random() * 3) +1;
 
     //Sprite Creation
-    const skeleton = new Skeleton(SpriteId.SKELETON, state, (xPos-15), yPos, imageSet, frames, physics, hitBox,hp)
+    const skeleton = new Skeleton(SpriteId.SKELETON, state, (xPos-15), yPos, imageSet, frames, physics, hitBox,hp,score)
 
     //Adds Sprite to Array
     globals.sprites.push(skeleton)
@@ -808,7 +808,7 @@ function initPlatformVertical(xPos, yPos, maxRange) {
 
     //Initial Physics values
 
-    const physics = new UniformHorizontalMove(40)
+    const physics = new UniformHorizontalMove(50)
     const hitBox = new HitBox(92, 15, 4, 0)
 
     //Sprite Creation

diff --git a/src/constants.js b/src/constants.js
@@ -126,8 +126,8 @@ const Block = {
     TOP_RIGHT_2:            6,
     BOTH_SIDES_UP:          7,
     TOP_LEFT_2:             8,
-    STAR_1:                 9,
-    BLOCK:                 10,
+    BLOCK:                  9,
+    STAR_1:                 10,
     LEFT:                   11,
     DARK:                   12,
     RIGHT:                  13,
@@ -137,7 +137,7 @@ const Block = {
     BOTH_SIDES_DOWN:        17,
     BOT_LEFT_2:             18,
     BOTH_SIDES_LEFT:        19,
-    BOTH_SIDES_RIGHT:       20,
+    SPIKES:                 20,
     BOT_LEFT:               21,
     BOT:                    22,
     BOT_RIGHT:              23,
@@ -146,7 +146,7 @@ const Block = {
     BOTH_SIDES_FINAL_LEFT:  26,
     BOTH_SIDES_HORIZONTAL:  27,
     BOTH_SIDES_FINAL_RIGHT: 28,
-    SPIKES:                 29,
+    BOTH_SIDES_RIGHT:       29,
     GRASS:                  30,
 }
 const Obstacle = {

diff --git a/src/sprites/Skeleton.js b/src/sprites/Skeleton.js
@@ -3,11 +3,11 @@ import globals from "../globals.js"
 import {State, GRAVITY} from "../constants.js"
 import { initCrystal } from "../initialize.js";
 export class Skeleton extends Sprite {
-    constructor (id, state, xPos, yPos, imageSet, frames, physics, hitBox, hp){
+    constructor (id, state, xPos, yPos, imageSet, frames, physics, hitBox, hp,score){
         super (id, state, xPos, yPos, imageSet, frames, physics)
         this.hitBox         = hitBox      //Sprite HitBox
         this.life           = hp
-        this.score          = 300
+        this.score          = score
         
     }
     update(){

diff --git a/src/sprites/Player.js b/src/sprites/Player.js
@@ -244,8 +244,8 @@ export class Player extends Sprite {
                 initJumpVFX(this.xPos, this.yPos)
             }
         }
-        if (this.physics.vy >350) {
-            this.physics.vy = 350
+        if (this.physics.vy > 300) {
+            this.physics.vy = 300
         }
         this.yPos += this.physics.vy * globals.deltaTime;
         if (this.physics.vy === 0 && this.isCollidingWithObstacleOnBottom ) {
